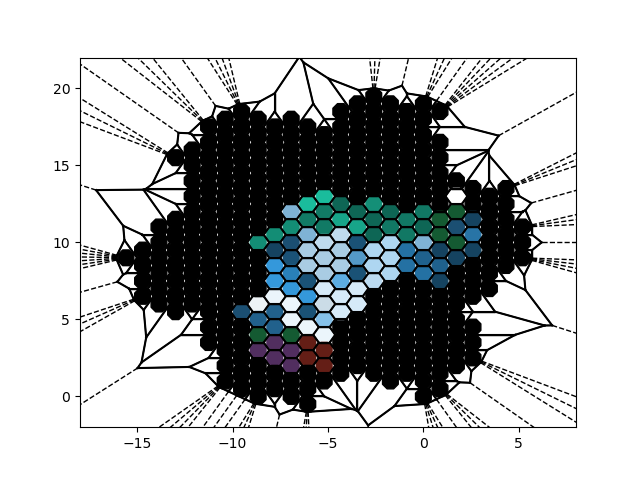
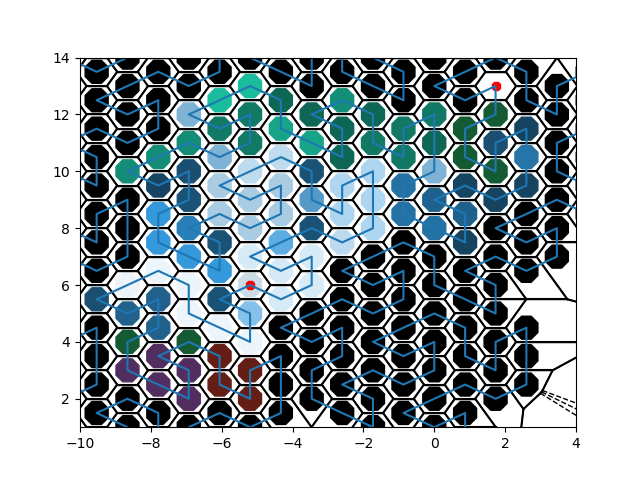
TODO 移动步骤 TODO FCN CNN 识别录入数据

diff --git a/envir/GridMapEnv.py b/envir/GridMapEnv.py
@@ -13,6 +13,7 @@ class GridMapEnv:
         self.file = file
         self.figure = plt.figure()
 
+    # read data from csv
     def readData(self):
         data = pd.read_csv(self.file)
         # x = data['x']
@@ -24,9 +25,10 @@ class GridMapEnv:
         data_point = pd.read_csv(self.file, usecols=['x', 'y'])
         # all points
         points = data_point.values.tolist()
-        return data,points
+        return data, points
 
-    def createVoronoi(self,points):
+    # draw Voronoi
+    def createVoronoi(self, points):
         # 取凸包，确保所有点都能取到一个多边形
         # radius单位为度，0.00001约等于1米
         radius = 1.0
@@ -52,14 +54,17 @@ class GridMapEnv:
             polygon = [vor.vertices[n] for n in region]
             plt.fill(*zip(*polygon), color="#ffffff")
 
-    def drawGridMap(self,x,y,color):
-        plt.scatter(x, y, color=color, s=150, marker='8')
-        # plt.plot(x, y)
-        plt.axis([-18, 8, -2, 22])
+    # draw line and points
+    def drawGridMap(self, x, y, color):
+        plt.scatter(x, y, color=color, s=320, marker='8')
+        plt.plot(x, y)
+        # plt.axis([-18, 8, -2, 22])
+        plt.axis([-10, 4, 1, 14])
         # plt.xlim([-9,0]), plt.ylim([3,12])
         plt.savefig('voro.png')
         plt.show()
 
+    # demo
     def createBaseEnv(self):
         # datasource
         data = pd.read_csv(self.file)
@@ -106,3 +111,28 @@ class GridMapEnv:
         plt.savefig('voro.png')
         plt.show()
 
+    # init don
+    def bornToDes(self, bornObj, destinationObj):
+        plt.plot(bornObj.x, bornObj.y, marker=bornObj.s, color=bornObj.c)
+        plt.plot(destinationObj.x, destinationObj.y, marker=destinationObj.s, color=destinationObj.c)
+
+    # TODO Agent move,六个方向，步长也需要重新定义，
+    def action(self, direction, step):
+
+        return
+
+    # TODO save trace
+    def saveTrace(self):
+        return
+
+    # TODO 沿着边界移动且不超出边界
+    def stopInSide(self):
+        return
+
+    # TODO 沿着边界移动
+    def moveBySide(self):
+        return
+
+    # TODO 试图越过边界
+    def acrossSide(self):
+        return

diff --git a/main.py b/main.py
@@ -1,12 +1,33 @@
 from envir.GridMapEnv import GridMapEnv
 
 
-def show_env():
+class Point:
+    def __init__(self, x, y, style, color):
+        self.x = x
+        self.y = y
+        self.s = style
+        self.c = color
+
+    def getX(self):
+        return self.x
+
+    def getY(self):
+        return self.y
+
+    def getStyle(self):
+        return self.s
+
+    def getColor(self):
+        return self.c
+
+
+if __name__ == '__main__':
+    born = Point(1.73,13,'8','r')
+    dest = Point(-5.20,6.00,'8','r')
     gridMap = GridMapEnv('./envir/gosper.csv')
     (data, poins) = gridMap.readData()
     gridMap.createVoronoi(poins)
+    gridMap.bornToDes(born,dest)
     gridMap.drawGridMap(data['x'], data['y'], data['color'])
 
-if __name__ == '__main__':
-    show_env()
-    print()
+

diff --git a/model/DDPG_demo.py b/model/DDPG_demo.py
@@ -16,7 +16,7 @@ print(action_high)
 
 env = gym.make("LunarLanderContinuous-v2")
 env.reset()
-for _ in range(1000):
+for _ in range(10000):
     env.render()
     action = env.action_space.sample()
     print(action)
